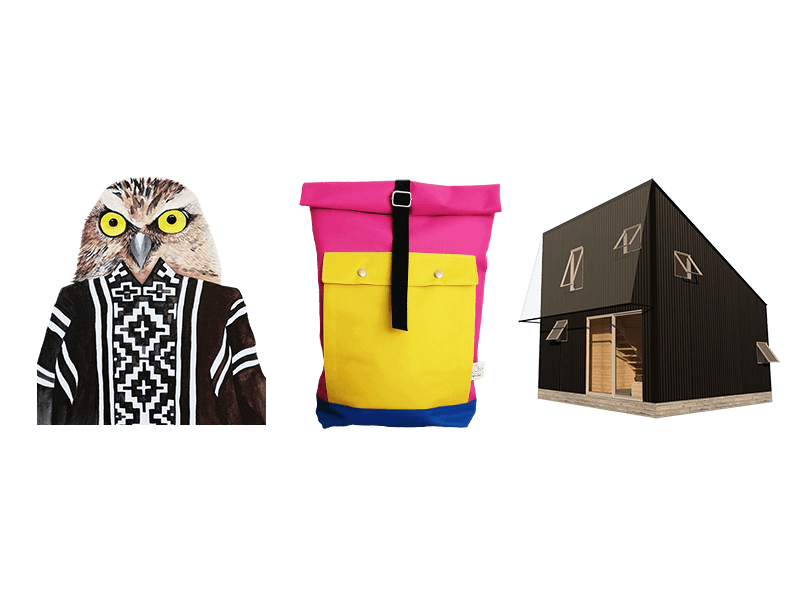
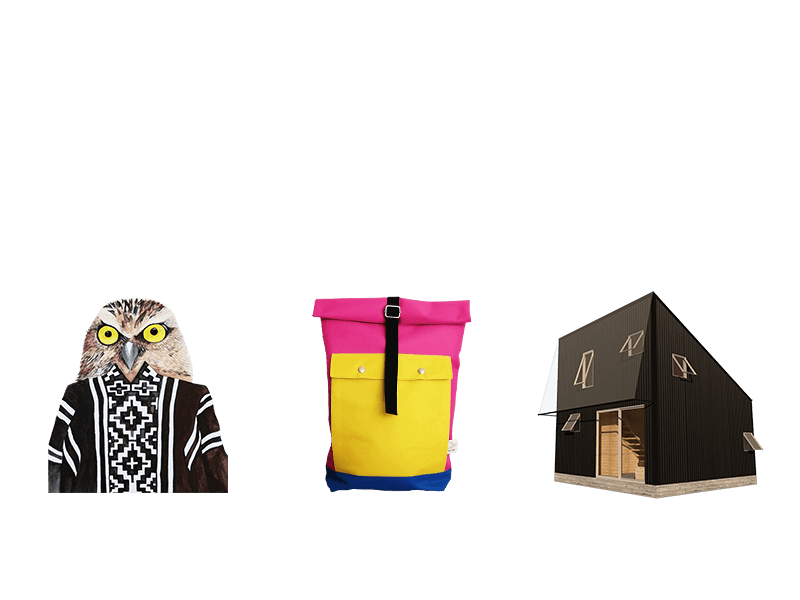
changed picture and move title on top of picture

diff --git a/src/ui/pages/home/HeroSection/HeroMobile/HeroMobile.js b/src/ui/pages/home/HeroSection/HeroMobile/HeroMobile.js
@@ -10,10 +10,11 @@ const HeroMobile = ({ data, className }) => (
     <div className={styles.img}>
       <div className={styles.shape_1} />
       <div className={styles.shape_2} />
+      <h2 className={styles.title}>{data.title}</h2>
       <img className={styles.image} src={img} alt="Taller cuach cuach" />
     </div>
     <div className={styles.text}>
-      <h2 className={styles.title}>{data.title}</h2>
+      {/* <h2 className={styles.title}>{data.title}</h2> */}
       <p className={styles.paragraph}>{data.subtitle}</p>
       <Link to={data.btnTo}>
         <Button caption={data.btnTxt} block className={styles.btn} />

diff --git a/src/ui/pages/home/HeroSection/HeroMobile/HeroMobile.module.scss b/src/ui/pages/home/HeroSection/HeroMobile/HeroMobile.module.scss
@@ -1,7 +1,7 @@
 @import '@styles/abstract';
 
 .mobile {
-  min-height: calc(100vh - 65px);
+  padding-bottom: 50px;
   background: $color-main-lightest;
 }
 
@@ -51,6 +51,15 @@
   margin: 0;
   line-height: 35px;
   padding-bottom: 20px;
+
+  display: flex;
+  flex-direction: column;
+  position: absolute;
+  left: 50%;
+  top: 32%;
+  transform: translate(-50%, -50%);
+  width: 80%;
+  z-index: 2;
 
   strong {
     display: block;
